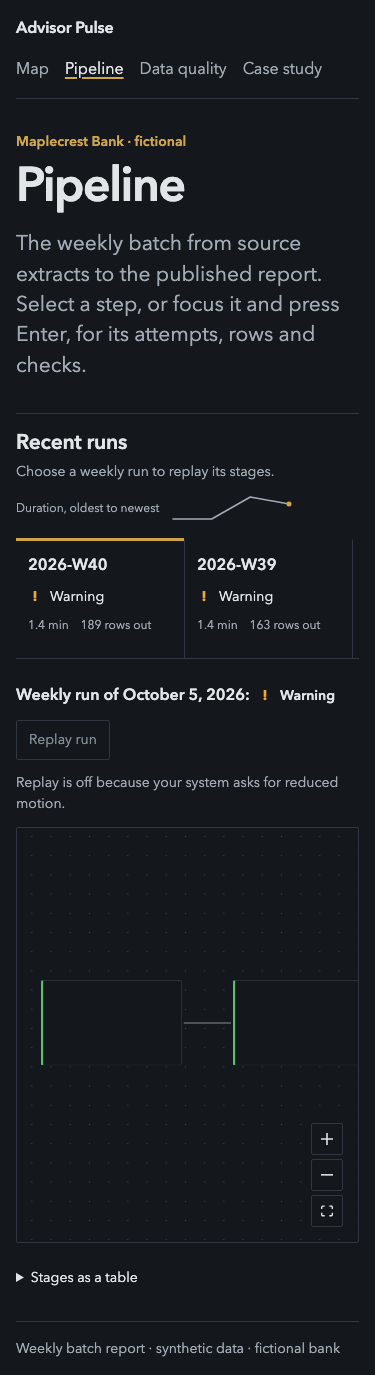
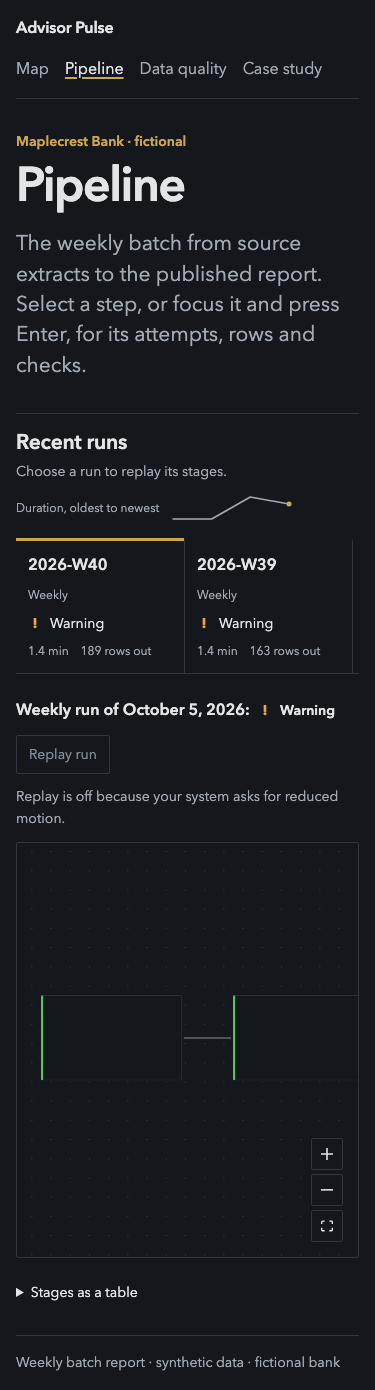
fix(pipeline-viz): identify run types in history and replay

diff --git a/web/src/features/pipeline/history/RunHistory.tsx b/web/src/features/pipeline/history/RunHistory.tsx
@@ -12,6 +12,10 @@ function duration(ms: number | null | undefined): string {
   return ms < 60_000 ? `${(ms / 1000).toFixed(1)} s` : `${(ms / 60_000).toFixed(1)} min`
 }
 
+export function runTypeLabel(type: RunSummary['run_type']): string {
+  return type === 'WEEKLY' ? 'Weekly' : type === 'BACKFILL' ? 'Backfill' : 'Manual'
+}
+
 /** Newest-first runs from the export, with a left-to-right oldest-to-newest duration trend. */
 export function RunHistory({ runs, selectedId, onSelect }: {
   runs: readonly RunSummary[]
@@ -24,7 +28,7 @@ export function RunHistory({ runs, selectedId, onSelect }: {
     <div className="pipe-history-head">
       <div>
         <h2>Recent runs</h2>
-        <p>Choose a weekly run to replay its stages.</p>
+        <p>Choose a run to replay its stages.</p>
       </div>
       <div className="pipe-history-trend">
         <span>Duration, oldest to newest</span>
@@ -37,6 +41,7 @@ export function RunHistory({ runs, selectedId, onSelect }: {
         return <button key={run.run_id} type="button" className="pipe-history-run"
           aria-pressed={run.run_id === selectedId} onClick={() => onSelect(run.run_id)}>
           <span className="pipe-history-week">{run.iso_week_id}</span>
+          <span className="pipe-history-type">{runTypeLabel(run.run_type)}</span>
           <StatusMark status={run.status} />
           <span className="pipe-history-stats"><span>{duration(run.duration_ms)}</span><span>{rows == null ? 'Rows unavailable' : `${rows.toLocaleString('en-CA')} rows out`}</span></span>
         </button>

diff --git a/web/src/features/pipeline/PipelinePage.tsx b/web/src/features/pipeline/PipelinePage.tsx
@@ -7,7 +7,7 @@ import { DataNotice, usePipelineGraph, useRunLog } from '../../data'
 import type { PipelineGraph, PipelineNode } from '../../data/generated/pipeline_graph'
 import type { RunSummary } from '../../data/generated/run_log'
 import { FlowEdge, type PipelineFlowEdge } from './FlowEdge'
-import { RunHistory } from './history/RunHistory'
+import { RunHistory, runTypeLabel } from './history/RunHistory'
 import { StageNode, type StageFlowNode, formatDuration } from './StageNode'
 import { type NodeState, edgeActive, nodeStages, replayEvents, summarize } from './timeline'
 import { useReplay } from './useReplay'
@@ -99,10 +99,11 @@ function Canvas({ graph, run }: { graph: PipelineGraph; run: RunSummary }) {
   }, [graph])
   const node = graph.nodes.find((n) => n.id === selected)
   const date = runDate(run)
+  const runType = runTypeLabel(run.run_type)
 
   return <>
     <div className="pipe-bar">
-      <p className="pipe-replay" aria-live="polite">{replaying ? `Replaying weekly run of ${date}` : `Weekly run of ${date}`}: <StatusMark status={run.status} /></p>
+      <p className="pipe-replay" aria-live="polite">{replaying ? `Replaying ${runType.toLowerCase()} run of ${date}` : `${runType} run of ${date}`}: <StatusMark status={run.status} /></p>
       <button type="button" onClick={restart} disabled={reducedMotion || replaying}>Replay run</button>
       {reducedMotion && <span className="pipe-note">Replay is off because your system asks for reduced motion.</span>}
     </div>

diff --git a/web/tests/pipeline.spec.ts b/web/tests/pipeline.spec.ts
@@ -1,3 +1,4 @@
+import { readFileSync } from 'node:fs'
 import { resolve } from 'node:path'
 import { expect, test } from '@playwright/test'
 
@@ -58,6 +59,20 @@ test('history shows status with an icon and selecting a run updates the canvas',
   await expect(older).toHaveAttribute('aria-pressed', 'true')
   await expect(page.getByText(/^Weekly run of September 21, 2026/)).toBeVisible()
   expect(await page.evaluate(() => document.documentElement.scrollWidth <= window.innerWidth)).toBe(true)
+})
+
+test('history and replay identify manual and backfill runs', async ({ page }) => {
+  const log = JSON.parse(readFileSync(resolve(exportsDir, 'run_log.json'), 'utf8'))
+  log.runs[0].run_type = 'MANUAL'
+  log.runs[1].run_type = 'BACKFILL'
+  await page.route('**/data/run_log.json', (route) => route.fulfill({ json: log }))
+  await page.emulateMedia({ reducedMotion: 'reduce' })
+  await page.goto('/pipeline')
+  const history = page.getByRole('region', { name: 'Run history' })
+  await expect(history.getByRole('button', { name: /2026-W40 Manual/ })).toBeVisible()
+  await expect(page.getByText(/^Manual run of October 5, 2026/)).toBeVisible()
+  await history.getByRole('button', { name: /2026-W39 Backfill/ }).click()
+  await expect(page.getByText(/^Backfill run of September 28, 2026/)).toBeVisible()
 })
 
 test('reduced motion shows the final state with replay off', async ({ page }) => {

diff --git a/web/src/features/pipeline/history/history.css b/web/src/features/pipeline/history/history.css
@@ -9,4 +9,5 @@
 .pipe-history-run[aria-pressed="true"] { border-top-color: var(--signal); }
 .pipe-history-run:focus-visible { outline: 2px solid var(--focus); outline-offset: -2px; }
 .pipe-history-week { font-size: var(--text-md); font-weight: 600; font-variant-numeric: tabular-nums; }
+.pipe-history-type { color: var(--muted); font-size: var(--text-xs); }
 .pipe-history-stats { display: flex; flex-wrap: wrap; gap: var(--space-1) var(--space-3); color: var(--muted); font-size: var(--text-xs); font-variant-numeric: tabular-nums; }

diff --git a/docs/design.md b/docs/design.md
@@ -180,6 +180,7 @@ Motion answers a change of data or place. It is never decoration, and nothing mo
 - Drill down: the chosen node's row or region expands into the next page, so the reader
   keeps their place. Drill up reverses it.
 - Pipeline replay (#42) steps through stages at 400 ms each, and can be paused.
+- Run history names each run type (weekly, manual, or backfill) beside its week and status.
 - No entrance animations on scroll, no staggered fade-ins, no looping motion.
 - `prefers-reduced-motion: reduce` sets every duration token to 0, and `Chart` turns off
   ECharts animation. Content must make sense with no motion at all.
